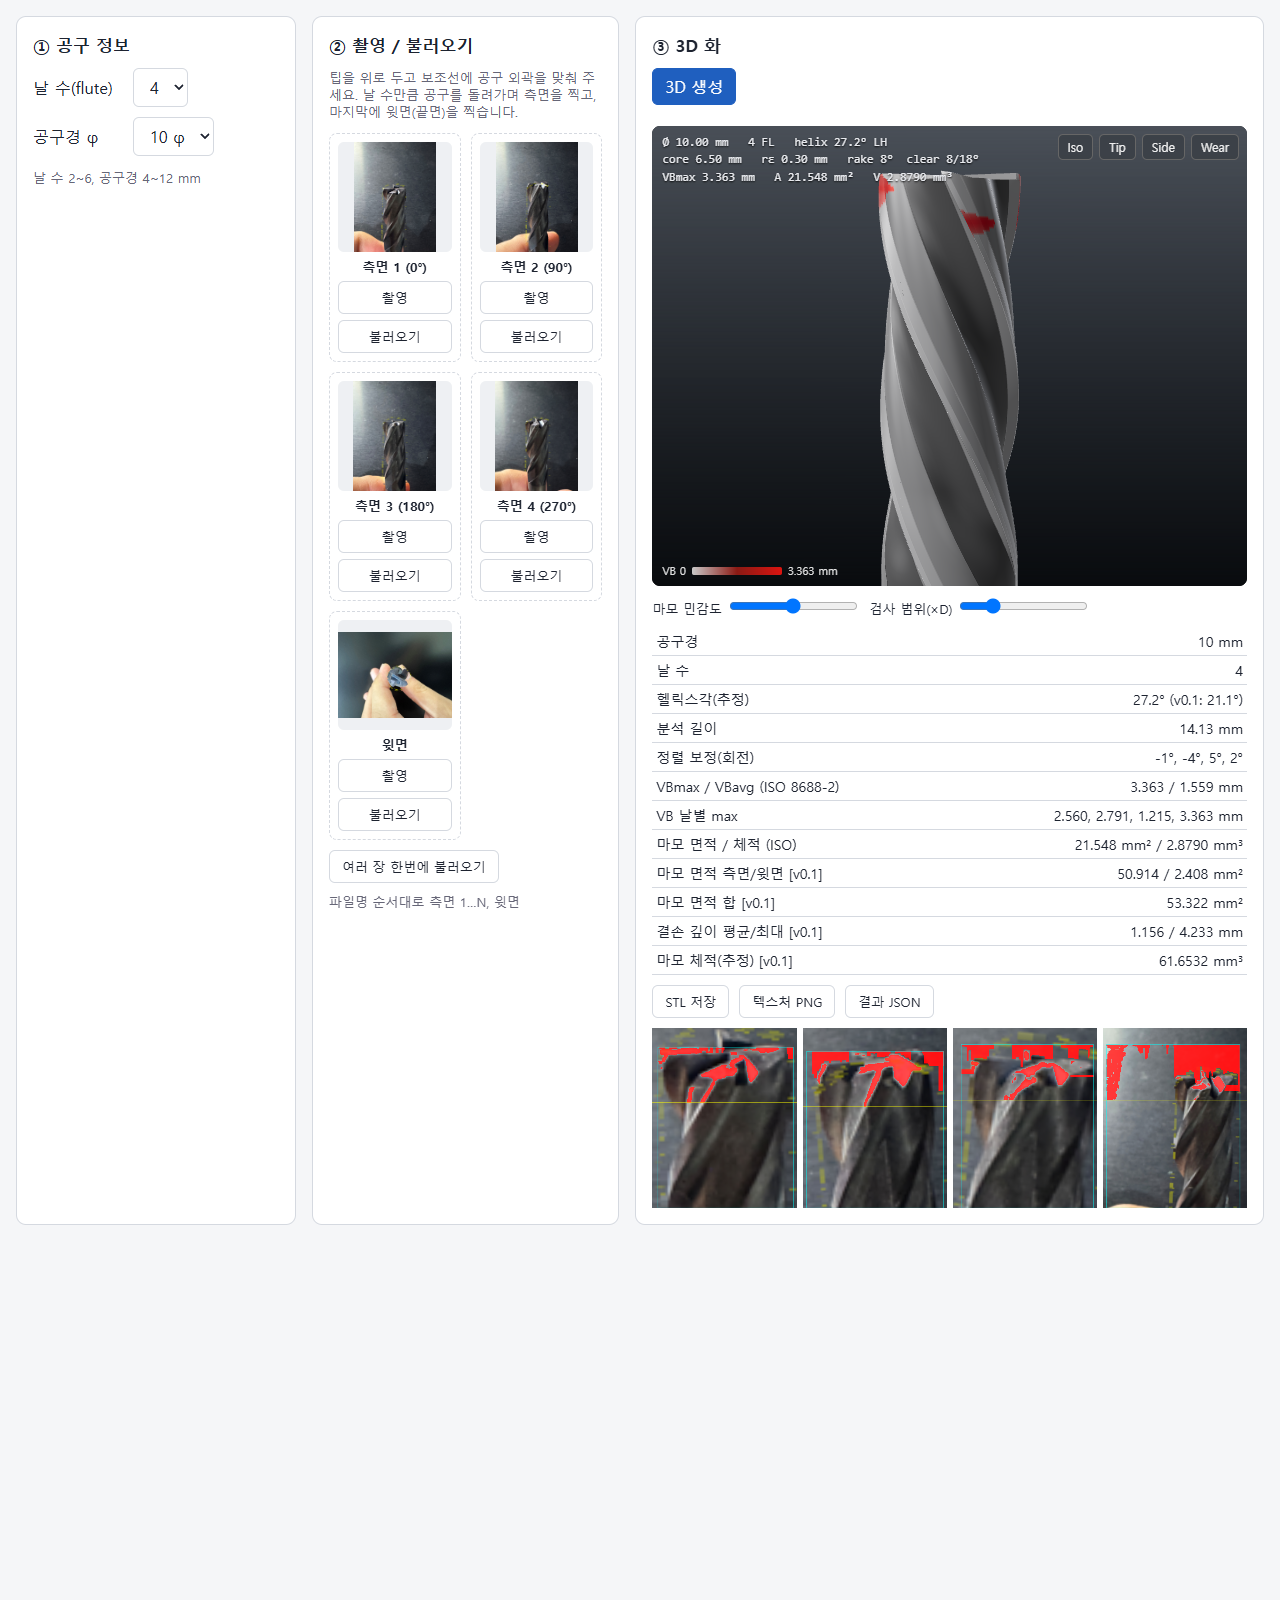
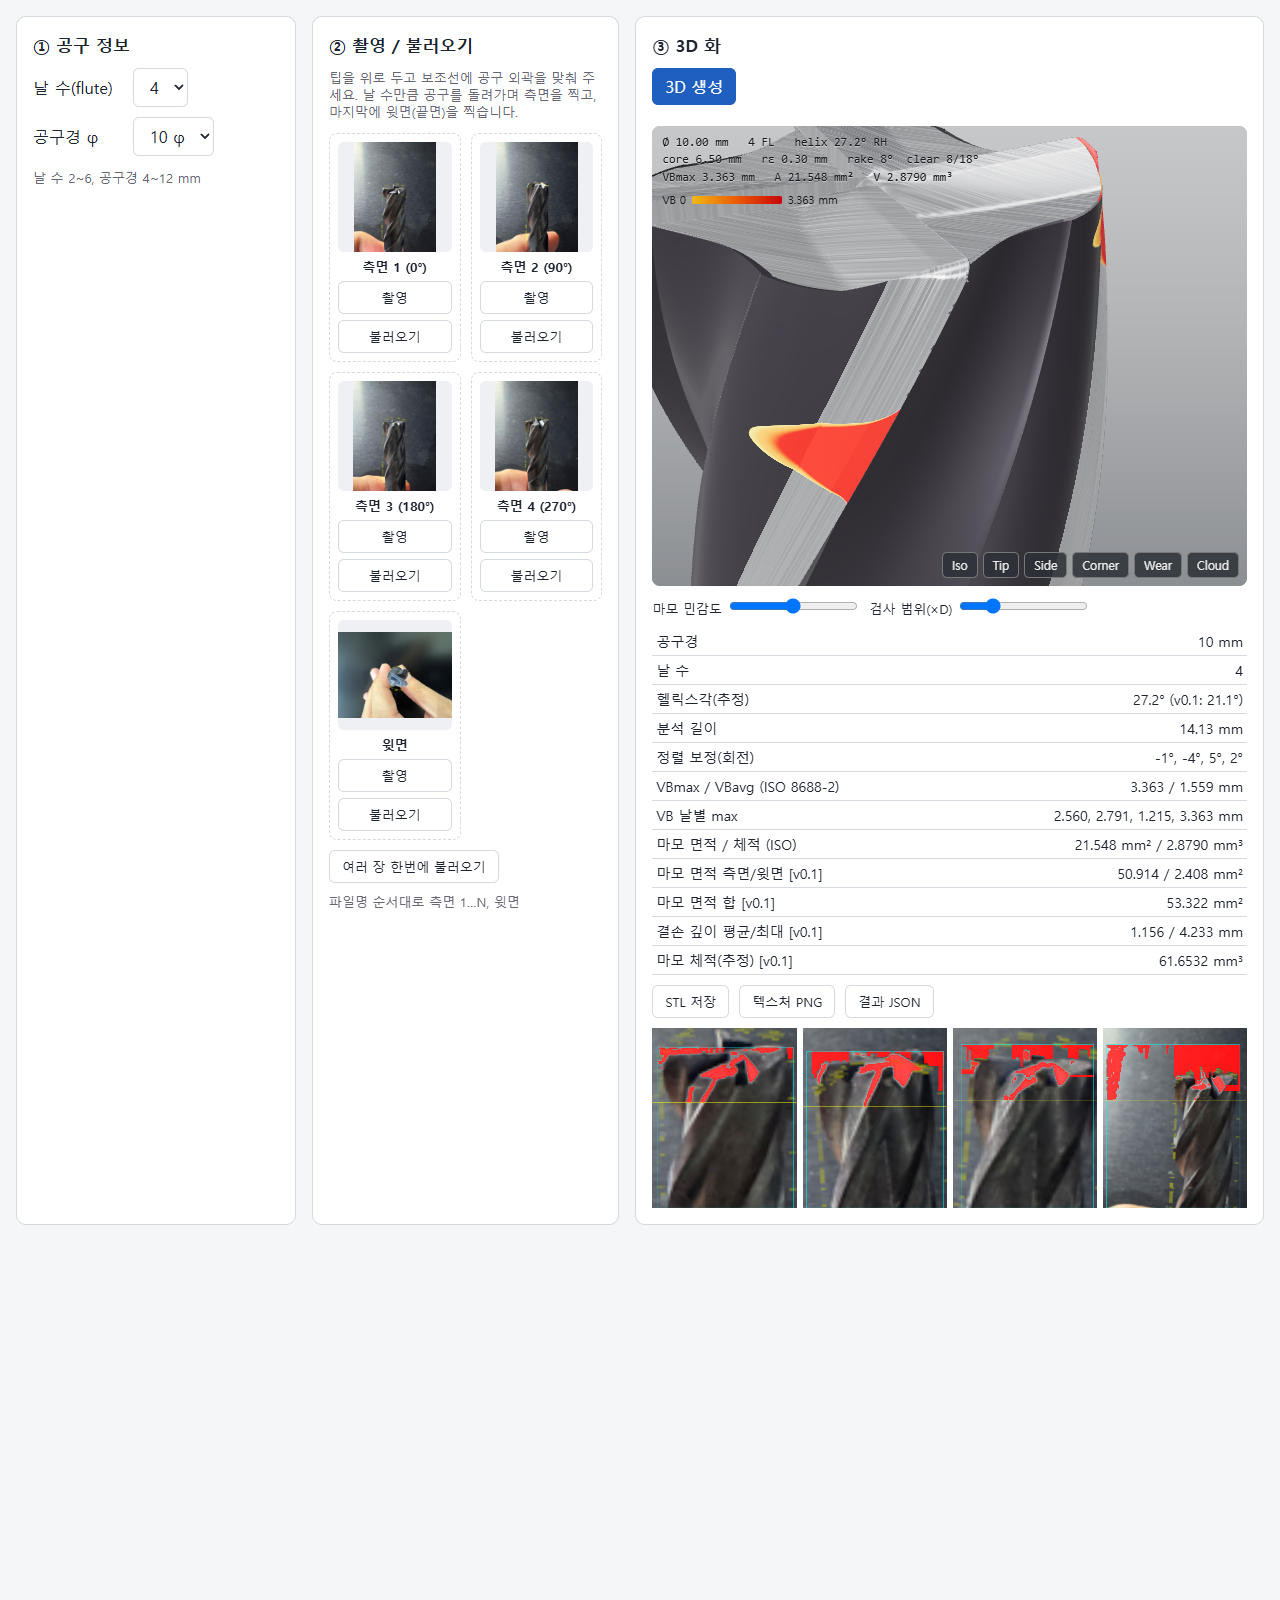
render: tone down land grind bump and wear red; refresh screenshots (E2E pass)

Changed region(s): [[0.5, 0.0625, 1.0, 0.375]]

diff --git a/www/js/render/surface-material.js b/www/js/render/surface-material.js
@@ -63,7 +63,7 @@ vec3 bumpN(vec3 pos, vec3 n, float h, float fd) {
     float fe = dot(vSurf, vec2(.8, .6)) * 60. + 1.4 * vn(vSurf * 6.);
     mk = lines(fe) * .7 + lines(dot(vSurf, vec2(.8, .6)) * 190.) * .3;
     streak = vn(vec2(dot(vSurf, vec2(.8, .6)) * 30., dot(vSurf, vec2(-.6, .8)) * .5));
-    gAlb = vec3(.58, .59, .61) * (.8 + .3 * streak); gRough = .2 + .14 * streak; gH = (mk - .5) * .0016;
+    gAlb = vec3(.58, .59, .61) * (.84 + .22 * streak); gRough = .22 + .1 * streak; gH = (mk - .5) * .0009;
   }
   // shank: fine circumferential cylindrical-grinding marks
   float sk = lines(z * 45. + .8 * vn(vec2(u * 3., z * 2.)));
@@ -92,7 +92,7 @@ vec3 bumpN(vec3 pos, vec3 n, float h, float fd) {
     float a = (1. - smoothstep(vb - soft, vb, s)) * smoothstep(.004, .02, vb);
     float t = clamp(1. - s / max(vb, 1e-4), 0., 1.);
     vec3 wc = mix(vec3(.95, .72, .08), vec3(.92, .30, .03), smoothstep(0., .12, t));
-    wc = mix(wc, vec3(.78, .025, .02), smoothstep(.12, .3, t));
+    wc = mix(wc, vec3(.52, .006, .005), smoothstep(.12, .3, t));
     sAlb = mix(sAlb, wc, a); sRough = mix(sRough, .55, a); sMetal = mix(sMetal, .05, a); sH *= 1. - .8 * a;
   }
 `;
